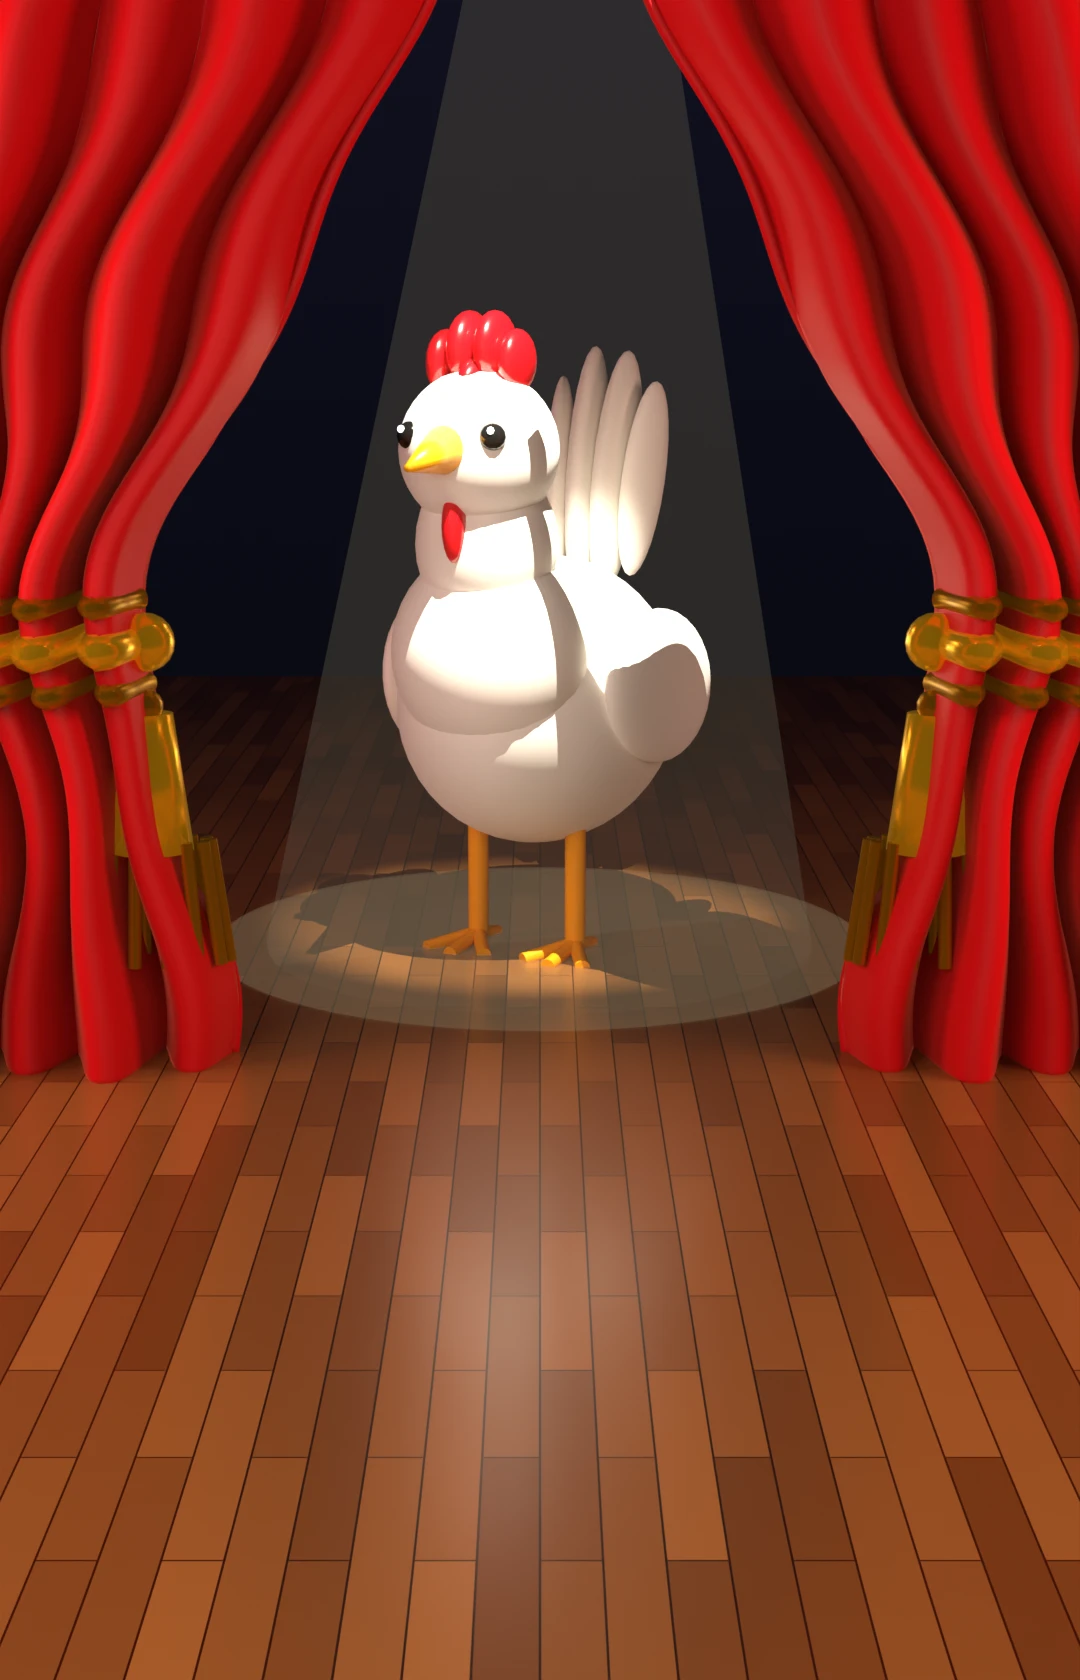
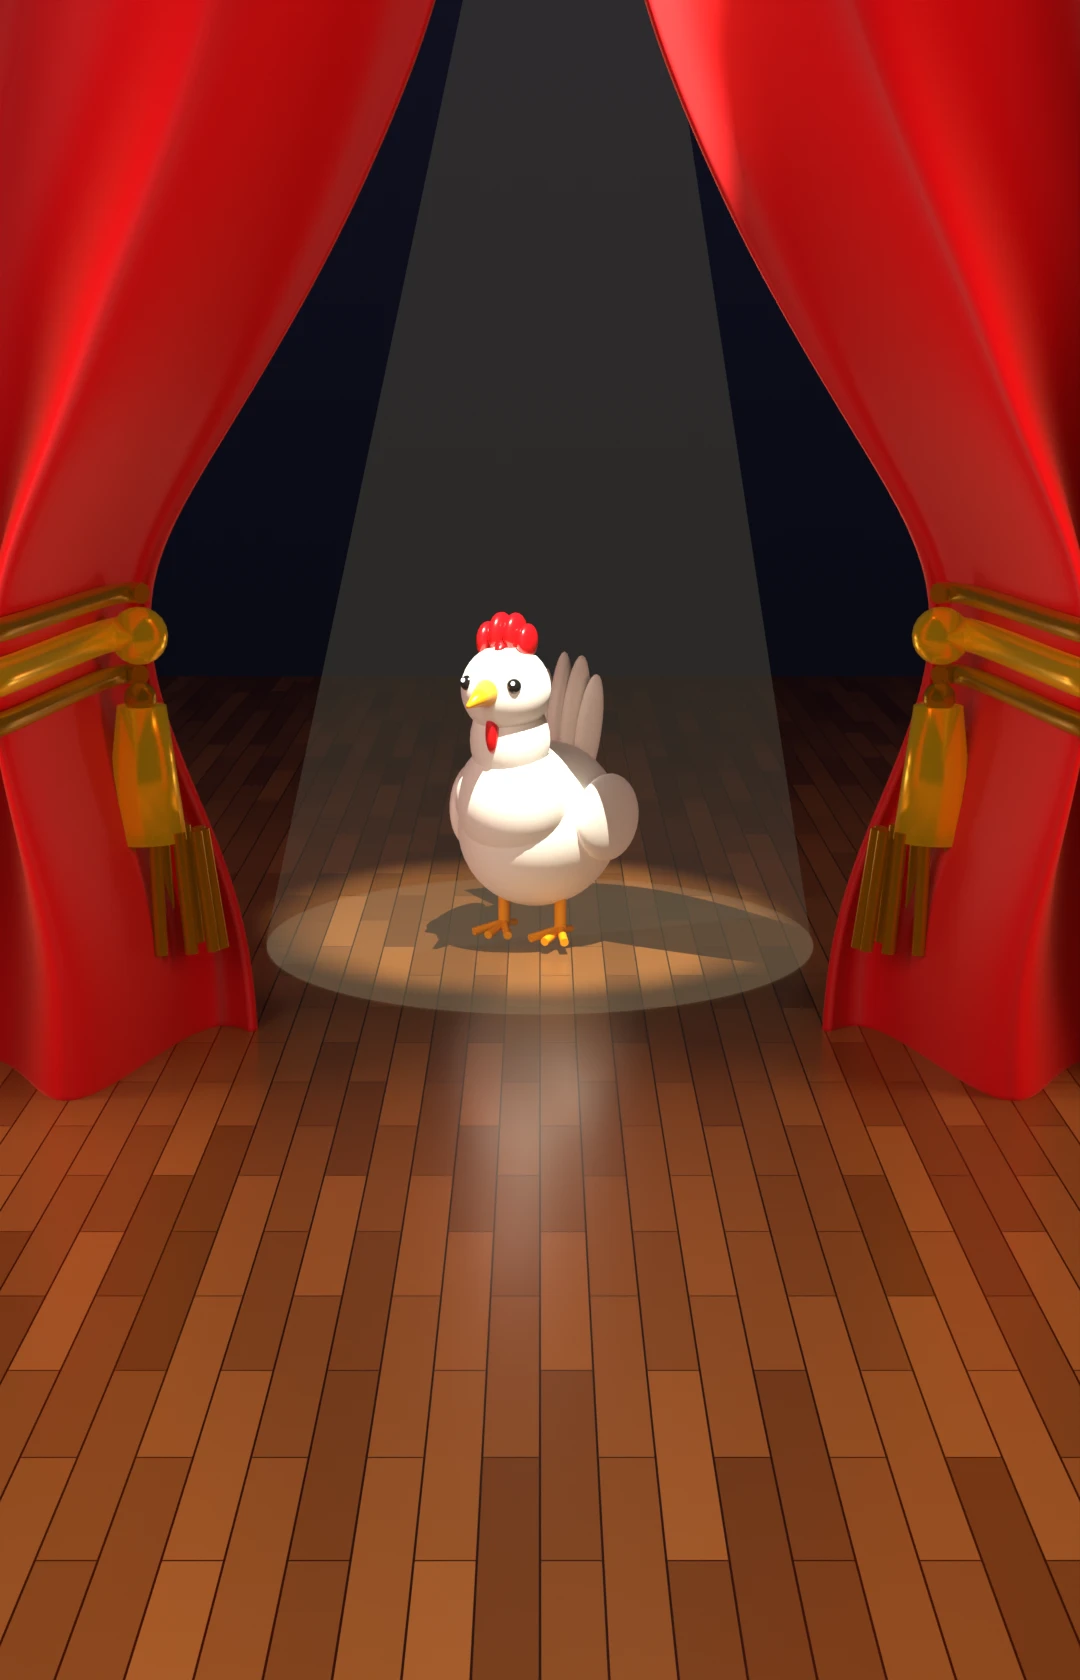
It's Curtains Task 7: the art, to the owner's notes
Claude-Session: https://claude.ai/code/session_01FiUbYLvVQznXFuvS8WeFrd

diff --git a/instances/divided-world/ui/cards/its-curtains/scene.py b/instances/divided-world/ui/cards/its-curtains/scene.py
@@ -46,9 +46,9 @@ def cpos(side, t, z, phase=0.0):
     """A point on the curtain on `side` (-1 left, 1 right): t is 0 at its inner edge, 1 at the outer; z its height."""
     xin = smooth(KEYS, z); w = smooth(WIDTH, z, 0.3)
     drop = (ZT - z) / (ZT - ZB)
-    fold = 0.11 + 0.17 * min(1.0, max(0.0, 1.0 - abs(z - TIE) / 3.2)) + 0.07 * drop
-    y = -0.45 - 0.14 * t + fold * (math.cos(math.tau * 7 * t + phase + 0.8 * math.sin(z * 1.3)) - 0.4 * math.cos(math.tau * 3.5 * t + 0.6))
-    x = xin + w * t + 0.05 * math.sin(z * 4.0 + t * 7)
+    fold = 0.3 + 0.5 * min(1.0, max(0.0, 1.0 - abs(z - TIE) / 3.2)) + 0.06 * drop
+    y = -0.45 - 0.14 * t + fold * (math.cos(math.pi * 3.6 * t + phase + 0.35 * math.sin(z * 0.7)) - 0.25 * math.cos(math.pi * 7.2 * t + 1.0))
+    x = xin + w * t + 0.03 * math.sin(z * 1.5 + t * 3)
     return (side * x, y, z)
 vm, vn, vl, vb = rig.material('velvet')
 vb.inputs['Base Color'].default_value = (*rig.hexrgb('#b80610'), 1); vb.inputs['Roughness'].default_value = 0.55
@@ -75,9 +75,9 @@ deep = rig.plastic('goldDeep', rig.hexrgb('#b8860b'), rough=0.3, metallic=0.9, e
 for side in (-1, 1):                     # the tiebacks: a gold band round the curtain, and a tassel off its inner edge
     for dz, r, mat in ((0.0, 0.08, gold), (0.2, 0.05, deep), (-0.2, 0.05, deep)):
         pts = [cpos(side, t, TIE + dz) for t in np.linspace(-0.02, 0.62, 36)]
-        pts = [(p[0], p[1] - 0.13, p[2]) for p in pts]
+        pts = [(p[0], p[1] - 0.34, p[2]) for p in pts]
         rig.tube('band', pts, r, mat, 5)
-    ix, iy, iz = cpos(side, -0.02, TIE); ix += -side * 0.02; iy -= 0.2
+    ix, iy, iz = cpos(side, -0.02, TIE); ix += -side * 0.02; iy -= 0.42
     rig.ball((ix, iy, iz), 0.14, gold, 'knot', 20)
     rig.ball((ix, iy - 0.02, iz - 0.3), 0.08, deep, 'neck', 14)
     rig.cone((ix, iy, iz - 0.34), (ix, iy, iz - 1.0), 0.12, 0.2, gold, 20)
@@ -102,7 +102,7 @@ P(rig.ball((0, -0.62, 1.2), 0.36, fm, 'head', 40))
 for sx in (-1, 1):                       # wings folded on the sides
     w = P(rig.ball((sx * 0.62, 0.0, 0.1), 0.5, fm, 'wing', 32, scale=(0.22, 0.95, 0.72))); w.rotation_euler = (math.radians(-12), 0, sx * math.radians(-6))
 for a, s in ((-26, 0.5), (-8, 0.62), (10, 0.6), (28, 0.48)):                                    # tail feathers fanned up behind
-    t = P(rig.ball((math.sin(math.radians(a)) * 0.5, 0.68, 0.75 + math.cos(math.radians(a)) * 0.3), s, fm, 'tail', 28, scale=(0.14, 0.3, 1.0)))
+    t = P(rig.ball((math.sin(math.radians(a)) * 0.45, 0.5, 0.45 + math.cos(math.radians(a)) * 0.3), s, fm, 'tail', 28, scale=(0.14, 0.3, 1.0)))
     t.rotation_euler = (math.radians(-12), 0, math.radians(-a * 0.6))
 for x, z, s in ((-0.2, 1.58, 0.15), (-0.07, 1.64, 0.17), (0.07, 1.65, 0.16), (0.19, 1.59, 0.14)):   # the comb
     P(rig.ball((x * 0.9, -0.58, z), s, red, 'comb', 20, scale=(0.5, 1.0, 1.0)))
@@ -113,18 +113,18 @@ for sx in (-1, 1):
     P(rig.ball((sx * 0.2, -0.88, 1.27), 0.065, inkm, 'eye', 16))
     P(rig.ball((sx * 0.22, -0.935, 1.3), 0.017, rig.glow('glint', (1, 1, 1), 4.0), 'glint', 8))
 for sx in (-1, 1):                       # legs and three-toed feet
-    P(rig.tube('leg', [(sx * 0.26, -0.15, -0.55), (sx * 0.26, -0.15, -1.15)], 0.05, legm, 6))
+    P(rig.tube('leg', [(sx * 0.26, -0.15, -0.55), (sx * 0.26, -0.15, -0.85)], 0.05, legm, 6))
     for ang in (-34, 0, 34):
         tx = math.sin(math.radians(ang)) * 0.28; ty = -math.cos(math.radians(ang)) * 0.3
-        P(rig.tube('toe', [(sx * 0.26, -0.15, -1.15), (sx * 0.26 + tx, -0.15 + ty, -1.19)], 0.035, legm, 5))
-    P(rig.tube('toe', [(sx * 0.26, -0.15, -1.15), (sx * 0.26, 0.05, -1.19)], 0.03, legm, 5))
-rig.group(parts, loc=(0.0, 1.9, G + 1.43), rot=(0, 0, -26), scale=1.2)
+        P(rig.tube('toe', [(sx * 0.26, -0.15, -0.85), (sx * 0.26 + tx, -0.15 + ty, -0.89)], 0.035, legm, 5))
+    P(rig.tube('toe', [(sx * 0.26, -0.15, -0.85), (sx * 0.26, 0.05, -0.89)], 0.03, legm, 5))
+rig.group(parts, loc=(0.0, 1.9, G + 0.7), rot=(0, 0, -26), scale=0.7)
 
 # ---- light ---------------------------------------------------------------------------------------------
 beam = rig.glow('beam', rig.hexrgb('#fff2d0'), 0.9, alpha=0.012)               # the spotlight's cone, from above the stage
 rig.cone((0.2, 1.4, 6.6), (0.0, 1.9, G), 0.12, 1.6, beam, 48)
 pool = rig.glow('pool', rig.hexrgb('#ffe9b8'), 0.7, alpha=0.07)                 # and its pool on the boards
-bpy.ops.mesh.primitive_circle_add(vertices=64, radius=1.9, fill_type='NGON', location=(0, 1.9, G + 0.006)); po = bpy.context.object; po.data.materials.append(pool)
+bpy.ops.mesh.primitive_circle_add(vertices=64, radius=1.6, fill_type='NGON', location=(0, 1.9, G + 0.006)); po = bpy.context.object; po.data.materials.append(pool)
 bpy.ops.object.light_add(type='SPOT', location=(0.6, -1.5, 7.6)); spot = bpy.context.object
 spot.data.energy = 9000; spot.data.spot_size = math.radians(21); spot.data.spot_blend = 0.55; spot.data.color = (1.0, 0.93, 0.78)
 spot.rotation_euler = (Vector((0, 1.9, G + 0.8)) - spot.location).to_track_quat('-Z', 'Y').to_euler()
